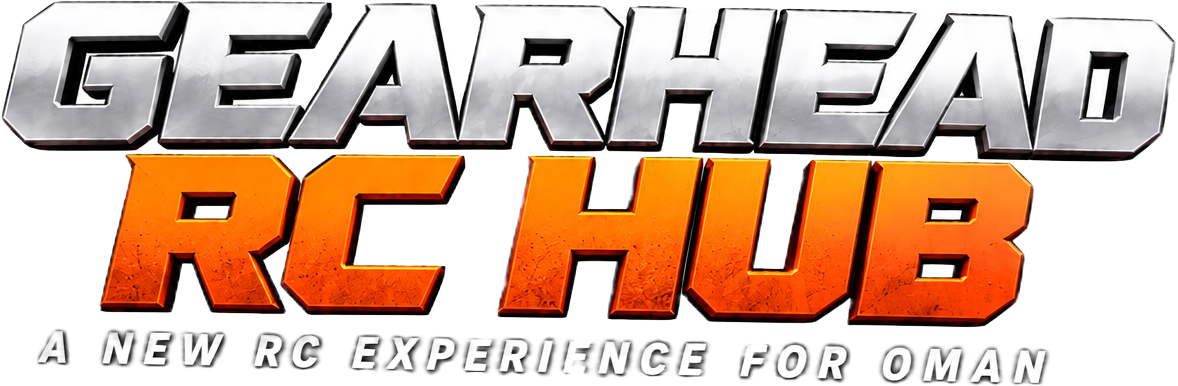
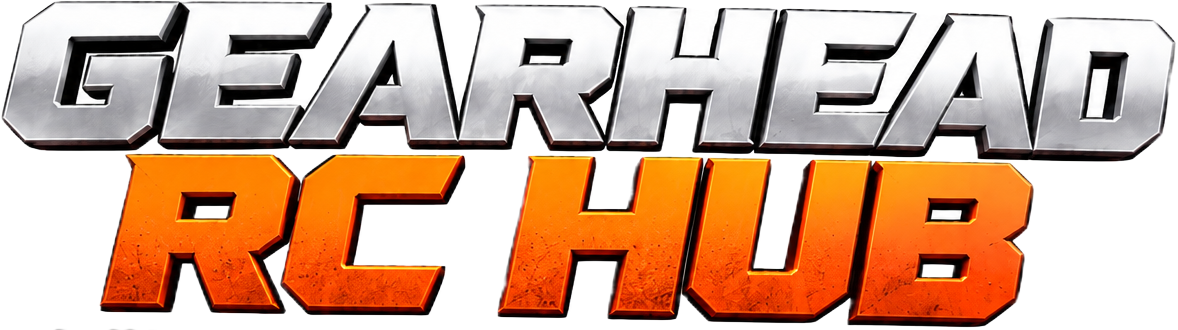
Changes

diff --git a/src/styles.css b/src/styles.css
@@ -2858,3 +2858,4 @@ html { scroll-padding-top: calc(100px + env(safe-area-inset-top)); }
 .ghh-showcase-in .ghs-showcase { background: linear-gradient(180deg, transparent, rgba(10,6,4,.55) 40%) !important; margin: 0 !important; }
 .ghh-showcase-in .ghs-showcase::before { display: none !important; }
 @media (min-aspect-ratio: 1/1) { .ghh-title-img img { width: min(46vw, 760px); } }
+.ghh-tag4 { font: italic 800 clamp(.7rem, 3.1vw, 1.3rem)/1.2 "Saira", sans-serif !important; font-stretch: 125%; letter-spacing: .18em !important; color: #fff !important; margin-top: .5rem !important; text-shadow: 0 2px 6px rgba(0,0,0,.8); }

diff --git a/src/components/site/VisionHero.tsx b/src/components/site/VisionHero.tsx
@@ -47,6 +47,7 @@ export function VisionHero({ portraitSrc, mode }: { mode?: "investor" | "app"; p
         <h1 className="ghh-title-img">
           <img src={titleArt} alt="GEARHEAD RC HUB — A New RC Experience for Oman" width={1200} height={400} />
         </h1>
+        <p className="ghh-tagline ghh-tag4">A NEW RC EXPERIENCE FOR OMAN</p>
         <p className="ghh-brand">A brand of <span>ADNEX.WORLD</span></p>
       </div>
       <div className="ghh-showcase-in">
